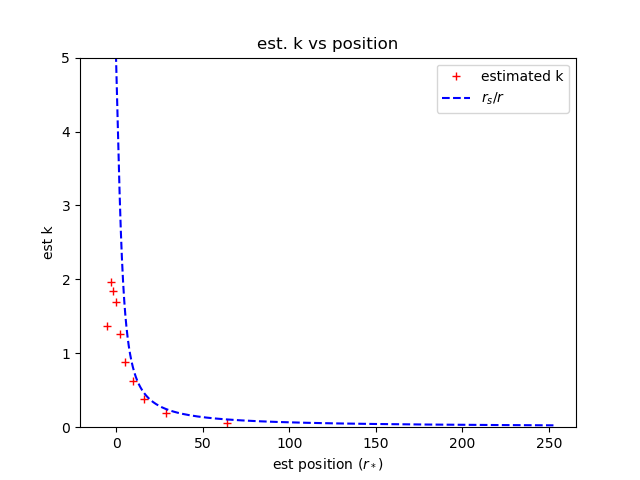
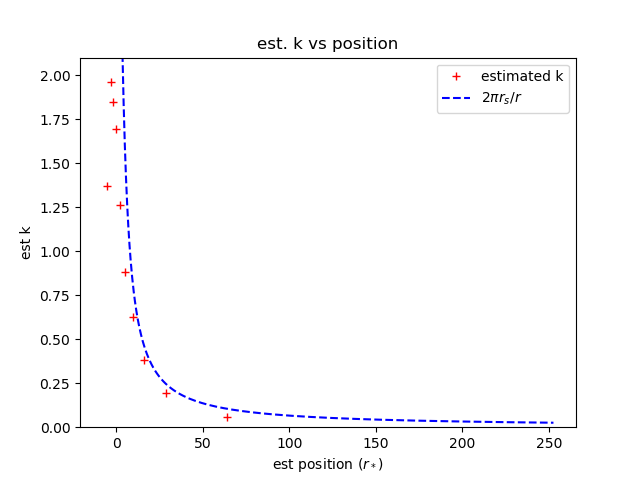
more anzatz work

diff --git a/Analysis/scripts/radial_profile_KerrSF_phi_vs_ansatz.py b/Analysis/scripts/radial_profile_KerrSF_phi_vs_ansatz.py
@@ -72,29 +72,33 @@ print("made profile")
 
 # np.exp(-0.1*(r_BL/r_plus))
 
-A = 5.6
+A = 5.0
 C = -1
 B1 = 0.1
 B2 = 0
 
 def k_func(z):
 	# z = (r_BL/r_plus)
-	result = 1/(1+0.05*z) - 0.05/z**2
+	result = 2*np.pi/z
 	return result
 
-def anzatz_phi(r_star):
+def anzatz_phi(r_star, phi, gamma):
 	result = np.zeros(r_star.size)
+	Abest = np.max((phi/0.1 - 1)*np.power(r_BL/r_plus, gamma))
+	print("Abest = ", Abest)
 	for i in range(0, r_star.size):
 		z = (r_BL[i]/r_plus)
 		k = k_func(z)
-		result[i] = 0.1*(1 + A/z)*np.cos((k*(r_star[i] + C) + 0)*mu*r_plus)
+		result[i] = 0.1*(1 + Abest/(z**gamma))*np.cos((k*(r_star[i] + C) + 0)*mu*r_plus)
 	return result
 
-def envelope(r_BL):
-	return 0.1*(1 + A*r_plus*(r_BL**(-3/4)))
+def envelope(r_BL, phi, gamma):
+	Abest = np.max((phi/0.1 - 1)*np.power(r_BL/r_plus, gamma))
+	print("Abest = ", Abest)
+	return 0.1*(1 + Abest*np.power(r_BL/r_plus, -gamma))
 
 def envelope2(r_BL, r_star):
-        return 0.1*(1 + A*r_plus/r_BL)(1 + np.exp(-r_star/5))
+        return 0.1*(1 + A*r_plus/r_BL)/(1 + np.exp(-(r_star+2)/5))
 
 # plot phi
 
@@ -113,44 +117,28 @@ t = number*dt
 
 #popt, pconv = curve_fit(anzatz_phi, x, phi, p0=(0.1, 0))
 
-anzatz = anzatz_phi(r_star)
 def plot_wavelengths():
-	osc_phi = phi/envelope(r_BL)
-	local_max_indices = argrelextrema(osc_phi, np.greater)[0]
-	local_min_indices = argrelextrema(osc_phi, np.less)[0]
-	local_max = r_star[local_max_indices]
-	local_min = r_star[local_min_indices]
-	r_BL_max = r_BL[local_max_indices]
-	r_BL_min = r_BL[local_min_indices]
-	r_BL_pos1 = 0.5*(r_BL_max[1:] + r_BL_min)
-	r_BL_pos2 = 0.5*(r_BL_max[:-1] + r_BL_min)
-	r_BL_pos = np.concatenate((r_BL_pos1, r_BL_pos2))
-	print("local_max.size = ", local_max.size)
-	print("local_min.size = ", local_min.size)
-	print(local_max, local_min)
-	wl1 = 2*(local_max[1:] - local_min)
-	pos1 = 0.5*(local_max[1:] + local_min)
-	wl2 = 2*(local_min - local_max[:-1])
-	pos2 = 0.5*(local_min + local_max[:-1])
-	wl = np.concatenate((wl1,wl2)) # = 2*pi/k
-	print("wl = ", wl)
-	pos = np.concatenate((pos1, pos2)) 
-	print("pos = ", pos)
-	indices = np.linspace(0, 6, 6)
-	#
-	# wl_anzatz = (r_BL-r_plus)/(2*math.pi*r_plus) + 0.05*((r_BL-r_plus)/(2*math.pi*r_plus))**2
-	z = (r_BL-r_plus)/(2*math.pi*r_plus)
-	z_pos = (r_BL_pos - r_plus)/(2*math.pi*r_plus)
-	plt.plot(pos, 2*np.pi/wl, "r+", label="estimated k")
-	k_anzatz = 2*np.pi*r_plus/(r_BL)
-	plt.plot(r_star, k_anzatz, "b--", label="$r_s/r$")
+	osc_phi = phi/envelope(r_BL, phi, 1)
+	local_extrema_indices = argrelextrema(np.abs(osc_phi), np.greater)[0]
+	local_extrema = r_star[local_extrema_indices]
+	r_BL_extrema = r_BL[local_extrema_indices]
+	wl = 2*(local_extrema[1:] - local_extrema[:-1])
+	pos = 0.5*(local_extrema[1:] + local_extrema[:-1])
+	r_BL_pos =  0.5*(r_BL_extrema[1:] + r_BL_extrema[:-1]) 
+	k = 2*np.pi/wl
+	#wl_anzatz = (r_BL-r_plus)/(2*math.pi*r_plus) + 0.05*((r_BL-r_plus)/(2*math.pi*r_plus))**2
+	#z = (r_BL-r_plus)/(2*math.pi*r_plus)
+	#z_pos = (r_BL_pos - r_plus)/(2*math.pi*r_plus)
+	plt.plot(np.log(r_BL_pos/r_plus), np.log(k), "r+", label="estimated k")
+	k_anzatz = r_plus*r_plus/(r_BL)
+	plt.plot(np.log(r_BL/r_plus), np.log(k_anzatz), "b--", label="$mu*(r_s**2)/r$")
 	#plt.xlim((-10, 100))
-	plt.ylim((0, 5))
+	#plt.ylim((0, 2.1))
 	plt.legend()
-	plt.title("est. k vs position")
-	plt.xlabel("est position ($r_*$)")
-	plt.ylabel("est k")
-	save_name = "phi_profile_k_plot.png"
+	plt.title("estimated k vs position")
+	plt.xlabel("ln(position in $r_{BL}/r_+$)")
+	plt.ylabel("ln(k)")
+	save_name = "phi_profile_k_plot_ln.png"
 	print("saved " + save_root_path + save_name)
 	plt.savefig(save_root_path + save_name, transparent=False)
 	plt.clf()
@@ -169,8 +157,9 @@ def plot_graph():
 		x = r_star
 		x_label = "$r_*$"
 	plt.plot(x, phi, 'r-', label="simulation phi")
-	plt.plot(x, envelope(r_BL), 'b--', label="ansatz envelope")
-	plt.plot(x, envelope2(r_BL, r_star), 'm--', label="ansatz envelope v2")
+	plt.plot(x, envelope(r_BL, phi, 3/4), 'b--', label="ansatz envelope (1 + a/r**(3/4))")
+	#plt.plot(x, envelope2(r_BL, r_star), 'm--', label="ansatz envelope v2")
+	anzatz = anzatz_phi(r_star, phi, 1)
 	plt.plot(x, anzatz, 'g--', label="anzatz phi")
 	plt.xlabel(x_label)
 	plt.ylabel("$\\phi$")
